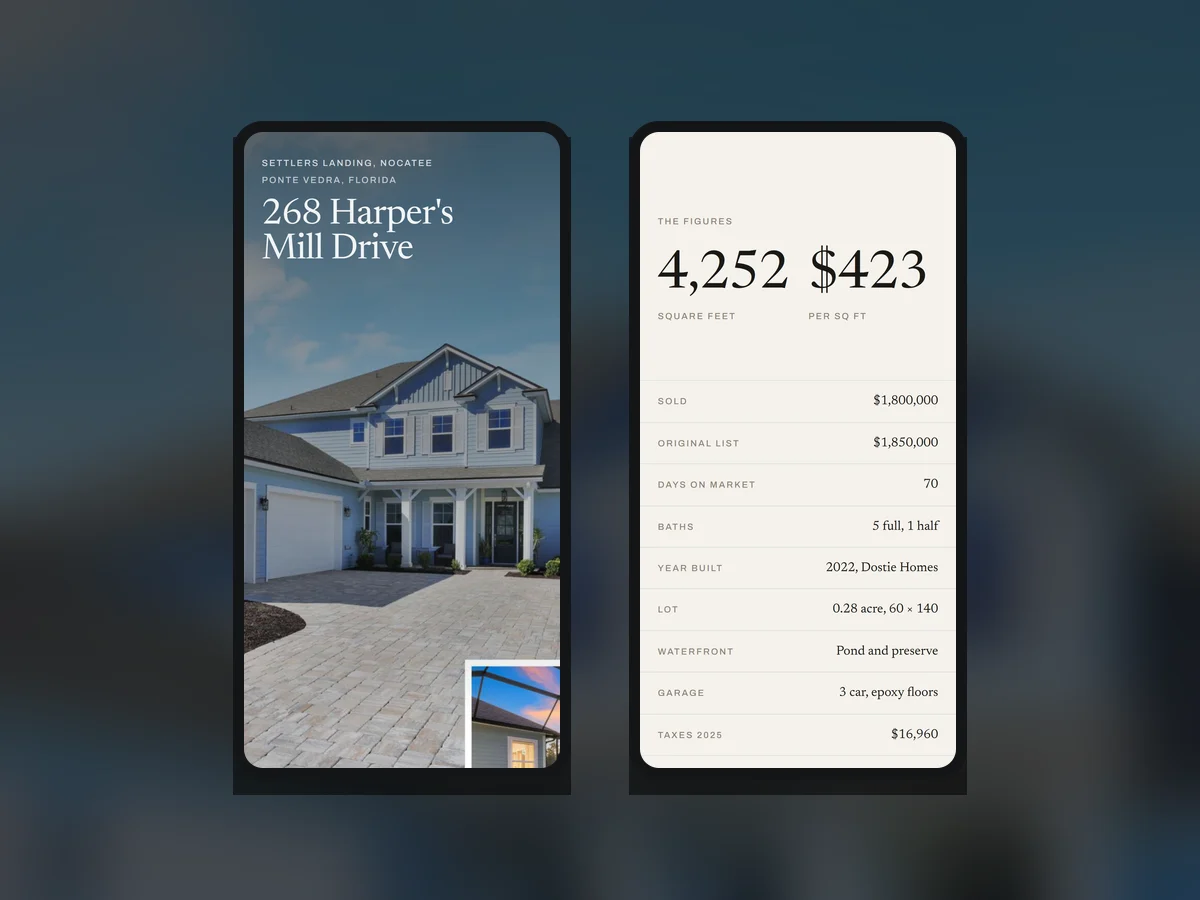
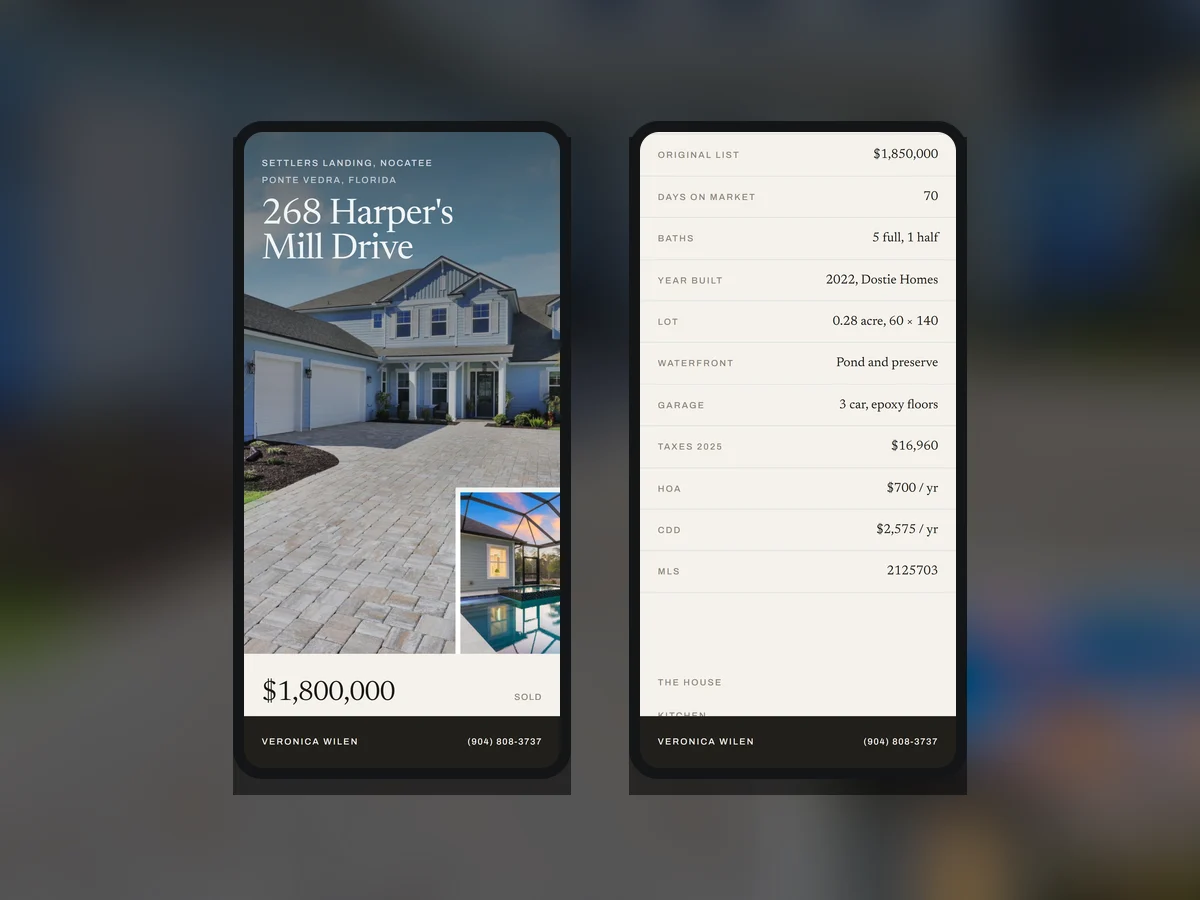
Hero phone cross-fades four screens of the live guide
Replaces the continuous scroll with a fade between four sections, and recaptures
everything from the live site rather than the design artboard, since the guide
was updated on 24 Aug.

The four screens are the ones that carry the pitch: the opening screen with the
address and sold price, the pool and spa from the gallery, the figures table, and
the closing card with Veronica's call, text and email rows.

Captured as genuine phone screenfuls. The viewport was set to 390x785, the same
620:1248 ratio the hero frame uses, and the page scrolled to each section, so
what is in each shot is what a phone actually shows there, including the call bar
that stays pinned at the bottom.

The fade is pure CSS, no JS. All four frames share one 24s keyframe offset by 6s
each, and each frame's visible window runs to 29% rather than 25%, so the
outgoing and incoming frames overlap. Measured across a full cycle the combined
opacity holds at exactly 1.00, so the screen never dips toward the background at
a handover and never blanks.

The first frame also carries a static opacity:1. Animations override static
values while running, so this only takes effect under prefers-reduced-motion,
where the sheet switches animations off further down. Without it the reduced
motion case would have shown an empty phone.

The float is untouched and still runs alongside, since floatY sits on .phone and
frameFade sits on the frames inside it.
[…]

diff --git a/styles.css b/styles.css
@@ -74,14 +74,21 @@ img{max-width:100%;display:block}
 .phone{position:relative;border-radius:32px;padding:9px;background:var(--ink-800);box-shadow:var(--shadow-lifted);animation:floatY 7s ease-in-out infinite}
 @keyframes floatY{0%,100%{transform:translateY(0)}50%{transform:translateY(-8px)}}
 .phone-screen{position:relative;border-radius:24px;overflow:hidden;background:var(--paper-100);aspect-ratio:620/1248}
-/* The screen scrolls one tall capture of the whole guide rather than cross-fading
-   between stills. Travel is a percentage of the image's own height, so it holds at
-   any rendered width: a 12789px strip in a 1248px window is 90.24%.
-   It runs down and back so the loop has no jump cut. The phone's floatY animation
-   is untouched, since that sits on .phone and this sits on the image. */
-.phone-screen .guide-scroll{position:absolute;inset:0;overflow:hidden;border-radius:24px;background:var(--paper-000)}
-.phone-screen .guide-scroll img{width:100%;height:auto;display:block;animation:guideScroll 84s linear infinite}
-@keyframes guideScroll{0%,4%{transform:translateY(0)}48%,52%{transform:translateY(-90.24%)}96%,100%{transform:translateY(0)}}
+/* Four real screenfuls of the guide, cross-faded. Each frame runs the same
+   24s keyframe offset by 6s, and its visible window (0 to 29%) is slightly
+   longer than its slot, so the outgoing and incoming frames overlap instead of
+   dipping through the background. The first frame carries a static opacity:1 so
+   that under prefers-reduced-motion, where animations are switched off further
+   down this sheet, the screen still shows the guide rather than going blank.
+   The phone's floatY is untouched: it sits on .phone, this sits on the frames. */
+.phone-screen .frame{position:absolute;inset:0;opacity:0;border-radius:24px;overflow:hidden;animation:frameFade 24s linear infinite}
+.phone-screen .frame:first-child{opacity:1}
+.phone-screen .frame img{width:100%;height:100%;object-fit:cover;display:block}
+.phone-screen .frame:nth-child(1){animation-delay:0s}
+.phone-screen .frame:nth-child(2){animation-delay:6s}
+.phone-screen .frame:nth-child(3){animation-delay:12s}
+.phone-screen .frame:nth-child(4){animation-delay:18s}
+@keyframes frameFade{0%{opacity:0}4%{opacity:1}25%{opacity:1}29%{opacity:0}100%{opacity:0}}
 
 /* work */
 .work{padding:clamp(34px,3.6vw,50px) var(--pad-x) clamp(56px,8vw,110px)}

diff --git a/index.html b/index.html
@@ -62,9 +62,11 @@
         <div class="phone-glow" aria-hidden="true"></div>
         <div class="phone">
           <div class="phone-screen">
-            <div class="guide-scroll">
-              <img src="images/guide-openhouse-strip.webp" width="620" height="12789" alt="The 268 Harper’s Mill Drive guide scrolling on a phone: the address over a photo of the home, then the price, interior photos, the figures table, the features and systems list, schools and amenities, and the agent card." loading="eager" decoding="async">
-            </div>
+            <div class="frame"><img src="images/guide-openhouse-home.webp" width="620" height="1248" alt="The guide’s opening screen on a phone: 268 Harper’s Mill Drive over a photo of the home, with the sold price below and the agent’s call bar pinned at the bottom." loading="eager" decoding="async"></div>
+            <div class="frame"><img src="images/guide-openhouse-photo.webp" width="620" height="1248" alt="The guide’s gallery on a phone: the screened pool and spa, captioned, with the outdoor kitchen below it." loading="lazy" decoding="async"></div>
+            <div class="frame"><img src="images/guide-openhouse-stats.webp" width="620" height="1248" alt="The guide’s figures table on a phone: original list price, days on market, baths, year built, lot, waterfront, garage, taxes, HOA, CDD and MLS number." loading="lazy" decoding="async"></div>
+            <div class="frame"><img src="images/guide-openhouse-contact.webp" width="620" height="1248" alt="The guide’s closing screen on a phone: Veronica Wilen of Christie’s International, with rows to call, text or email her." loading="lazy" decoding="async"></div>
+          </div>
           </div>
         </div>
       </div>
